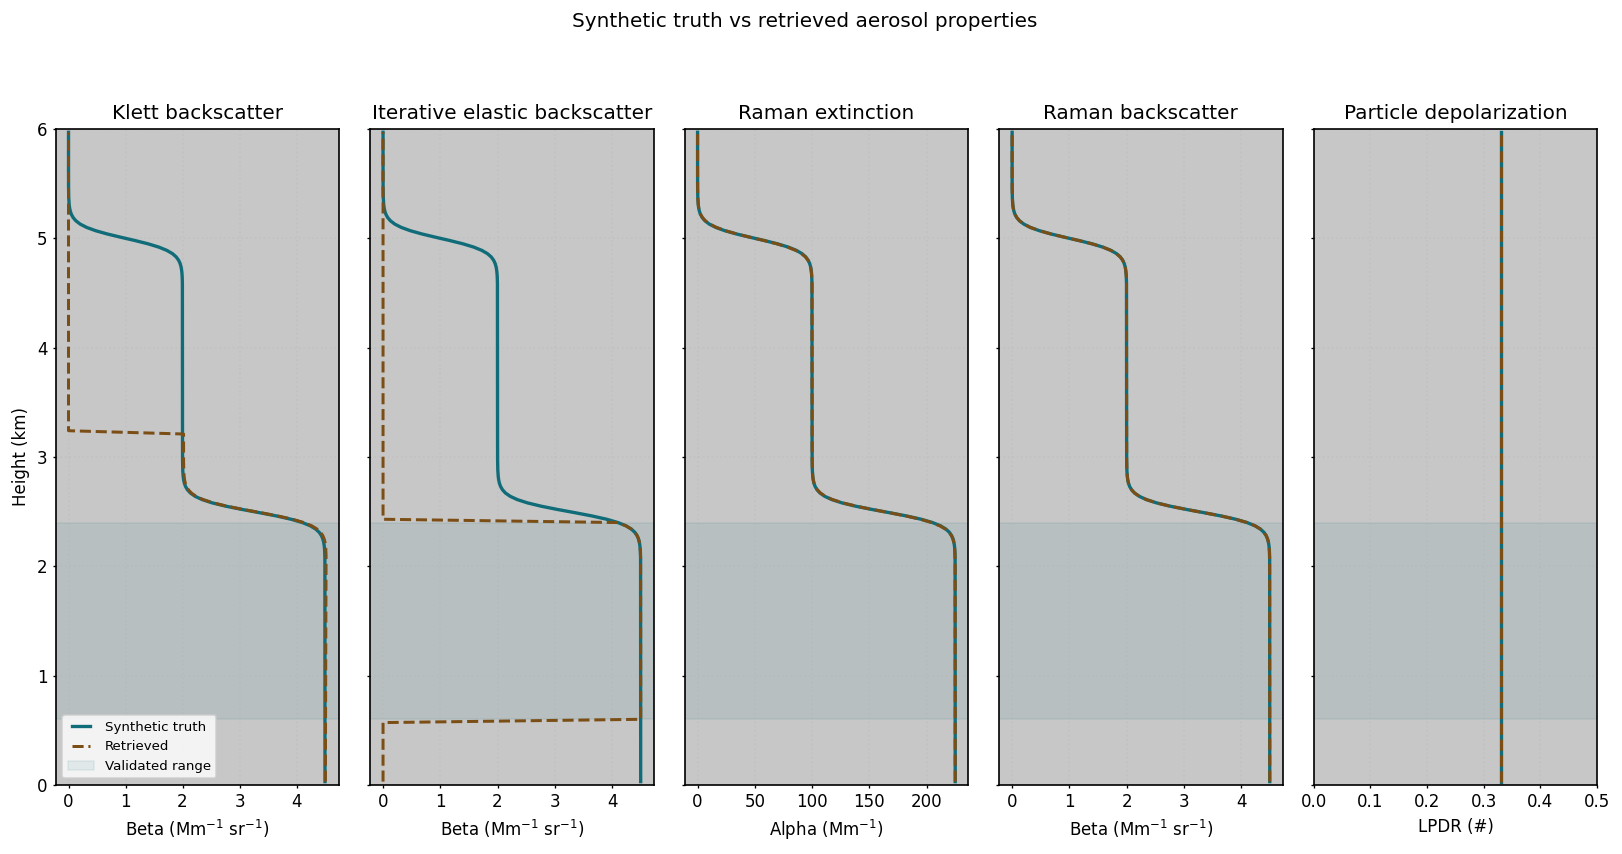
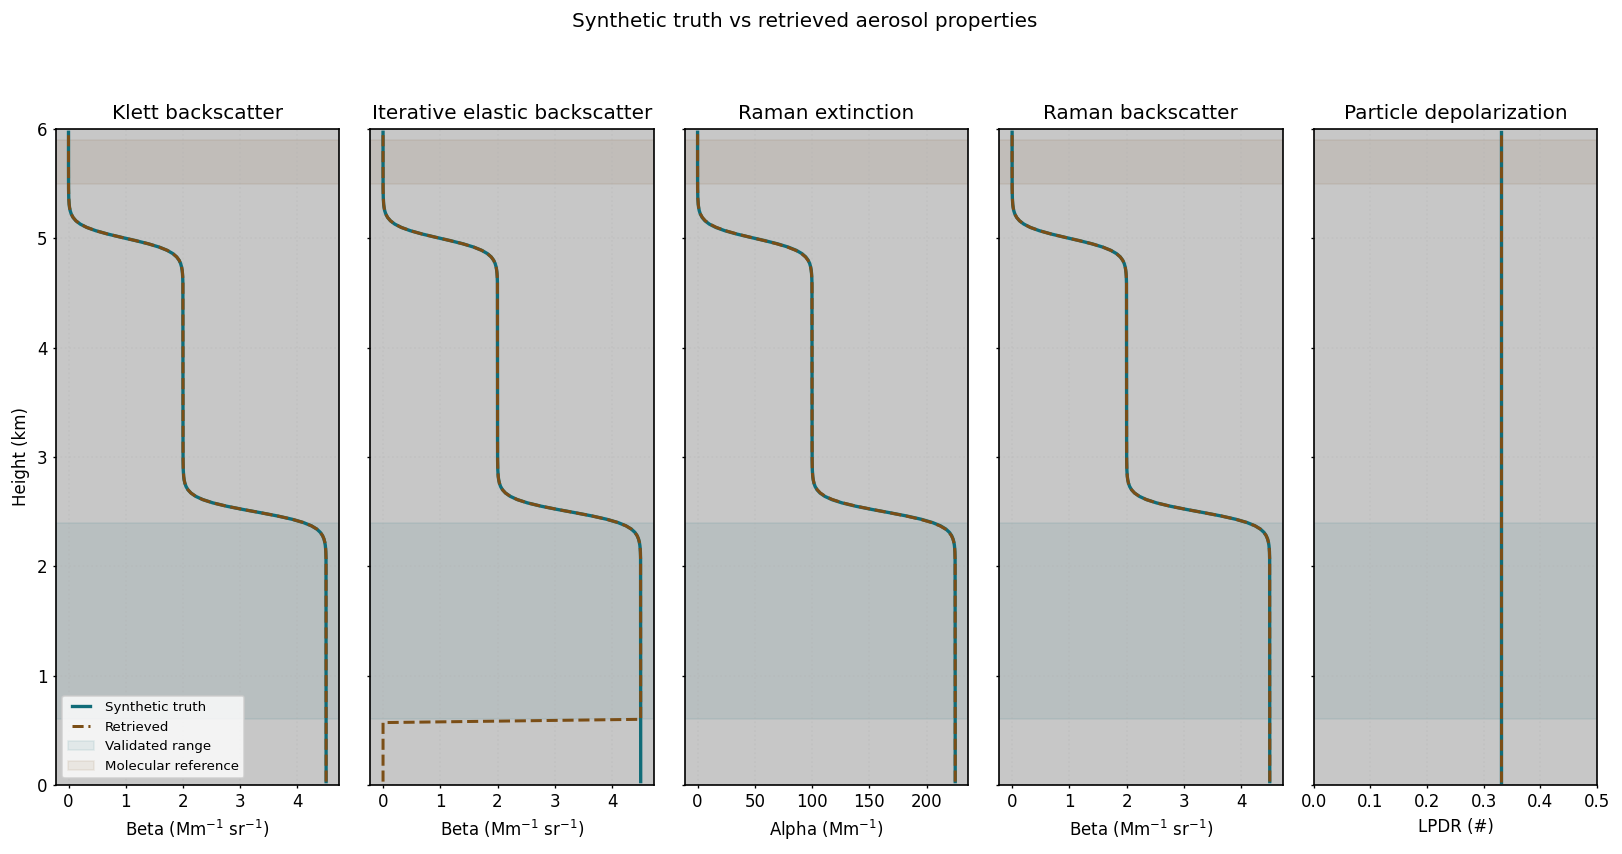
Use molecular reference for retrieval validation figure

diff --git a/docs/processing-workflow.html b/docs/processing-workflow.html
@@ -60,7 +60,9 @@
         Retrieval validation uses synthetic aerosol properties as the reference
         and compares them with properties inverted from synthetic elastic and
         Raman signals. LPDR is derived from the generated polarized components
-        and compared with the synthetic particle depolarization profile.
+        and compared with the synthetic particle depolarization profile. Elastic
+        and Raman retrievals use a molecular reference interval above the
+        synthetic aerosol layer.
       </figcaption>
     </figure>
     <ul>

diff --git a/tests/retrieval/test_synthetic_retrieval.py b/tests/retrieval/test_synthetic_retrieval.py
@@ -38,6 +38,10 @@ def _useful_range_mask(ranges: np.ndarray, truth: np.ndarray) -> np.ndarray:
     return (ranges >= 600.0) & (ranges <= 2400.0) & (truth > 1e-9)
 
 
+def _upper_layer_mask(ranges: np.ndarray, truth: np.ndarray) -> np.ndarray:
+    return (ranges >= 2700.0) & (ranges <= 4800.0) & (truth > 1e-9)
+
+
 def _relative_error(retrieved: np.ndarray, truth: np.ndarray) -> np.ndarray:
     denominator = np.maximum(np.abs(truth), 1e-12)
     return np.abs(retrieved - truth) / denominator
@@ -84,6 +88,28 @@ def test_klett_backscatter_matches_synthetic_truth_in_useful_range():
 
     assert np.nanmedian(error[useful]) < 0.01
     assert np.nanpercentile(error[useful], 95) < 0.02
+
+
+def test_klett_backscatter_matches_synthetic_truth_in_upper_layer_with_molecular_reference():
+    ranges, elastic, _, params = _synthetic_profiles()
+    reference = (5500.0, 5900.0)
+
+    rcs = signal_to_rcs(elastic, ranges)
+    particle_beta = klett_rcs(
+        rcs,
+        ranges,
+        params["molecular_beta"],
+        reference=reference,
+        lr_part=50.0,
+        lr_mol=float(8 * np.pi / 3),
+        beta_aer_ref=_reference_beta(params, ranges, reference),
+    )
+    truth = np.asarray(params["particle_beta"])
+    error = _relative_error(particle_beta, truth)
+    upper_layer = _upper_layer_mask(ranges, truth)
+
+    assert np.nanmedian(error[upper_layer]) < 0.01
+    assert np.nanpercentile(error[upper_layer], 95) < 0.02
 
 
 def test_klett_raises_when_reference_is_out_of_range():
@@ -194,6 +220,35 @@ def test_iterative_beta_forward_matches_synthetic_truth_with_start_height_bounda
 
     assert np.nanmedian(error[useful]) < 1e-3
     assert np.nanpercentile(error[useful], 95) < 1e-2
+
+
+def test_iterative_beta_forward_matches_synthetic_truth_through_upper_layer():
+    ranges, elastic, _, params = _synthetic_profiles()
+    start_height = 600.0
+
+    rcs = signal_to_rcs(elastic, ranges)
+    start_idx = np.abs(ranges - start_height).argmin()
+    initial_particle_optical_depth = cumulative_trapezoid(
+        params["particle_alpha"],
+        ranges,
+        initial=0.0,
+    )[start_idx]
+    particle_beta = iterative_beta_forward(
+        rcs,
+        calibration_factor=1e11,
+        range_profile=ranges,
+        params=params,
+        lr_part=50.0,
+        start_height=start_height,
+        height_top=5900.0,
+        initial_particle_optical_depth=float(initial_particle_optical_depth),
+    )
+    truth = np.asarray(params["particle_beta"])
+    error = _relative_error(particle_beta, truth)
+    upper_layer = _upper_layer_mask(ranges, truth)
+
+    assert np.nanmedian(error[upper_layer]) < 1e-3
+    assert np.nanpercentile(error[upper_layer], 95) < 1e-2
 
 
 def test_iterative_beta_forward_rejects_negative_initial_particle_optical_depth():

diff --git a/scripts/generate_docs_figures.py b/scripts/generate_docs_figures.py
@@ -22,6 +22,7 @@ from lidarpy.utils.utils import signal_to_rcs
 
 ROOT = Path(__file__).resolve().parents[1]
 ASSET_DIR = ROOT / "docs" / "assets"
+MOLECULAR_REFERENCE = (5500.0, 5900.0)
 
 
 def _synthetic_coordinates() -> tuple[np.ndarray, np.ndarray, np.ndarray]:
@@ -146,6 +147,13 @@ def _plot_truth_vs_retrieved(
         label="Retrieved",
     )
     ax.axhspan(0.6, 2.4, color="#106c78", alpha=0.08, label="Validated range")
+    ax.axhspan(
+        MOLECULAR_REFERENCE[0] / 1000.0,
+        MOLECULAR_REFERENCE[1] / 1000.0,
+        color="#7b4e16",
+        alpha=0.08,
+        label="Molecular reference",
+    )
     ax.set_title(title)
     ax.set_xlabel(xlabel)
     ax.set_ylabel("Height (km)")
@@ -203,15 +211,14 @@ def generate_retrieval_validation_figure() -> None:
     ranges, elastic, raman, params = _synthetic_retrieval_profiles()
     rcs = signal_to_rcs(elastic, ranges)
 
-    klett_reference = (3000.0, 3500.0)
     klett_beta = klett_rcs(
         rcs,
         ranges,
         params["molecular_beta"],
-        reference=klett_reference,
+        reference=MOLECULAR_REFERENCE,
         lr_part=50.0,
         lr_mol=float(8 * np.pi / 3),
-        beta_aer_ref=_reference_beta(params, ranges, klett_reference),
+        beta_aer_ref=_reference_beta(params, ranges, MOLECULAR_REFERENCE),
     )
 
     start_height = 600.0
@@ -228,11 +235,11 @@ def generate_retrieval_validation_figure() -> None:
         params=params,
         lr_part=50.0,
         start_height=start_height,
-        height_top=2400.0,
+        height_top=5900.0,
         initial_particle_optical_depth=float(initial_particle_optical_depth),
     )
 
-    raman_reference = (4500.0, 5500.0)
+    raman_reference = MOLECULAR_REFERENCE
     raman_alpha = retrieve_extinction(
         raman,
         ranges,
